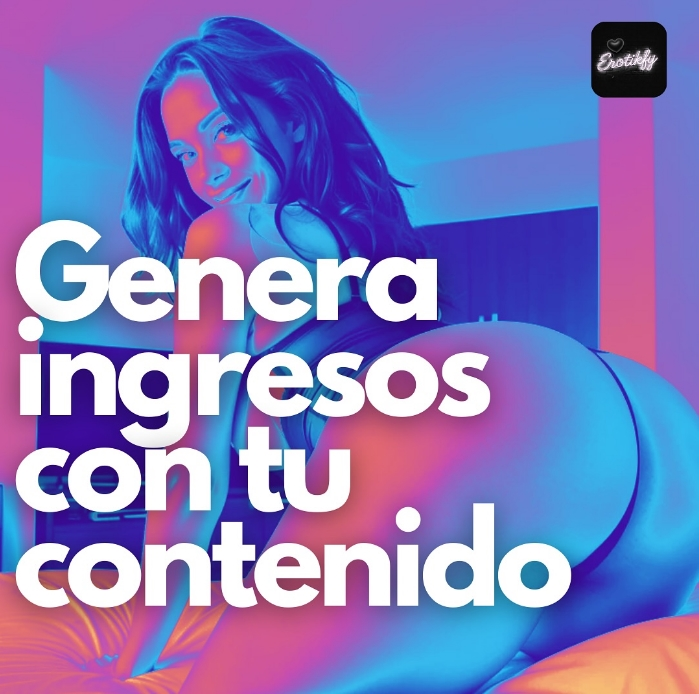
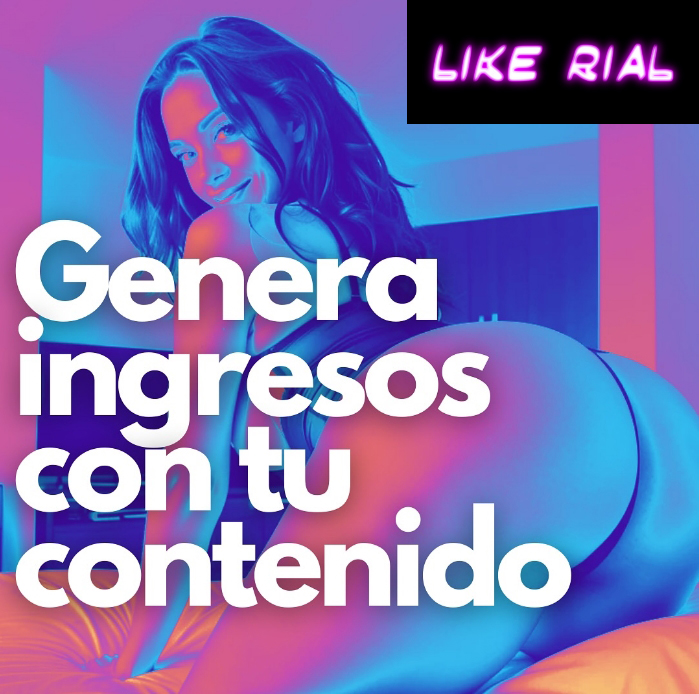
xddd

Changed region(s): [[0.5708, 0.0, 1.0, 0.1816]]

diff --git a/erotikfy/src/Components/Register/register.tsx b/erotikfy/src/Components/Register/register.tsx
@@ -55,7 +55,7 @@ export const Registrar = () =>{
             </div>
             <div className="register__container">
                 <div className='register_container-title'>
-                    <h2>REGISTRAR CUENTA</h2>
+                    <h2>Registrar tu cuenta</h2>
                 </div>
                     <form className="register__form" onSubmit={handleSubmit(onSubmit)}  >
                         <div>
@@ -64,11 +64,12 @@ export const Registrar = () =>{
                         </div>
                         <div>
                             <i className="fa fa-lock"></i>
-                            <InputForm name='contrasena' control={control} label='Contraseña' type='password' error={errors.contrasena}/>
+                            <InputForm name='contrasena' control={control} label='Ingresa una contraseña facil de recordar, no hay cambios' type='password' error={errors.contrasena}/>
                         </div>
                         <div>
+                            
                             <i className="fa fa-lock"></i>
-                            <InputForm name='confirmPassword' control={control} label='Confirmar contraseña' type='password' error={errors.confirmPassword}/>
+                            <InputForm name='confirmPassword' control={control} label='Confirma la contraseña, recuerda, no hay cambios' type='password' error={errors.confirmPassword}/>
                         </div>
                         <button className='register__button' type='submit'  disabled={loading}>
                             Registrarse

diff --git a/erotikfy/src/Components/Login/login.tsx b/erotikfy/src/Components/Login/login.tsx
@@ -55,8 +55,8 @@ export const Login = () => {
                 </div>
                 <div className="login__container">
                     <div className='login__header'>
-                        <h2>Iniciar Sesion</h2>
-                        <p>Ingresa tu nombre de usuario y la contraseña para acceder a erotkfy</p>
+                        <h2>Iniciar Sesión</h2>
+                        <p>Ingresa tu nombre de usuario y la contraseña para acceder a LikeRial</p>
                     </div>
                     <form className="login__form" onSubmit={handleSubmit}>
                         <div className='login__item'>
@@ -87,7 +87,7 @@ export const Login = () => {
                             </ul>
                         </div>
                         <button className='login__button' type='submit' disabled={loading}>
-                            Iniciar sesion
+                            Iniciar sesión
                         </button>
                     </form>
                 </div>
